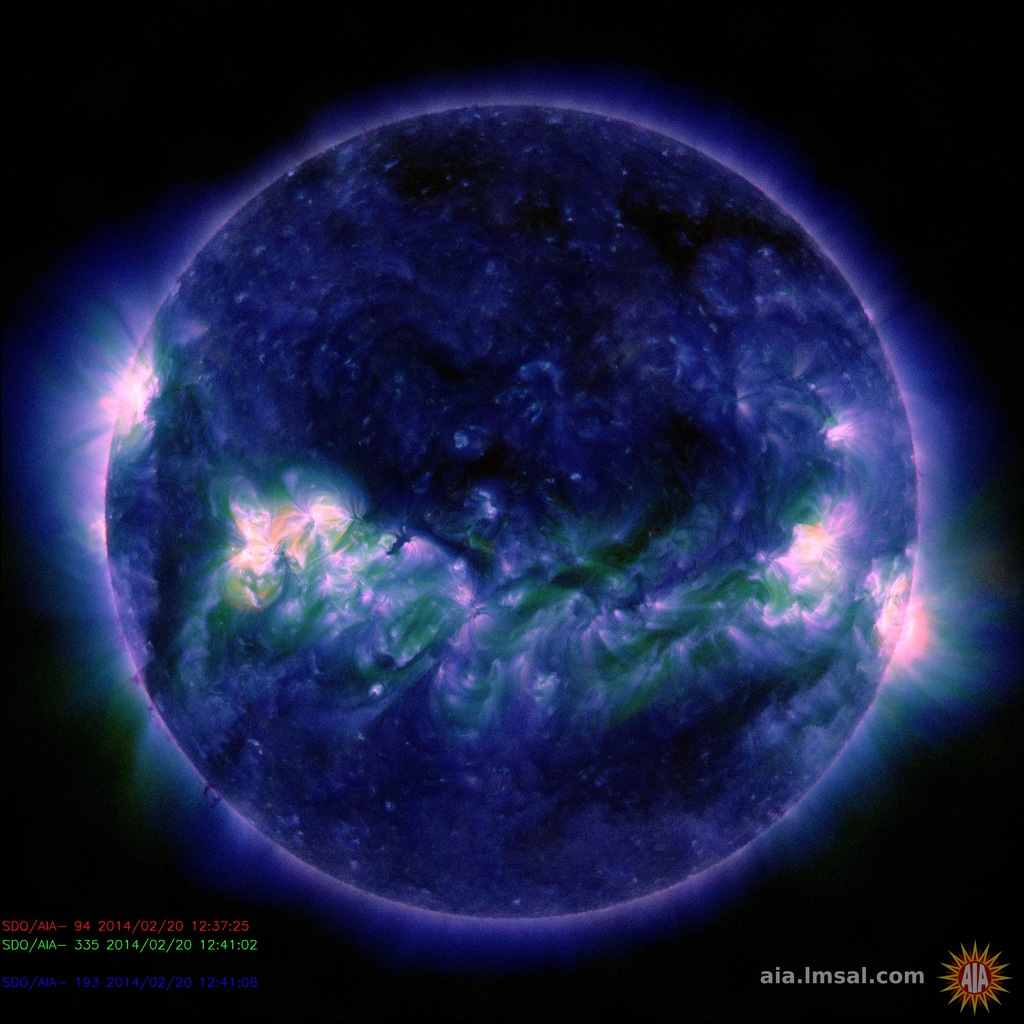
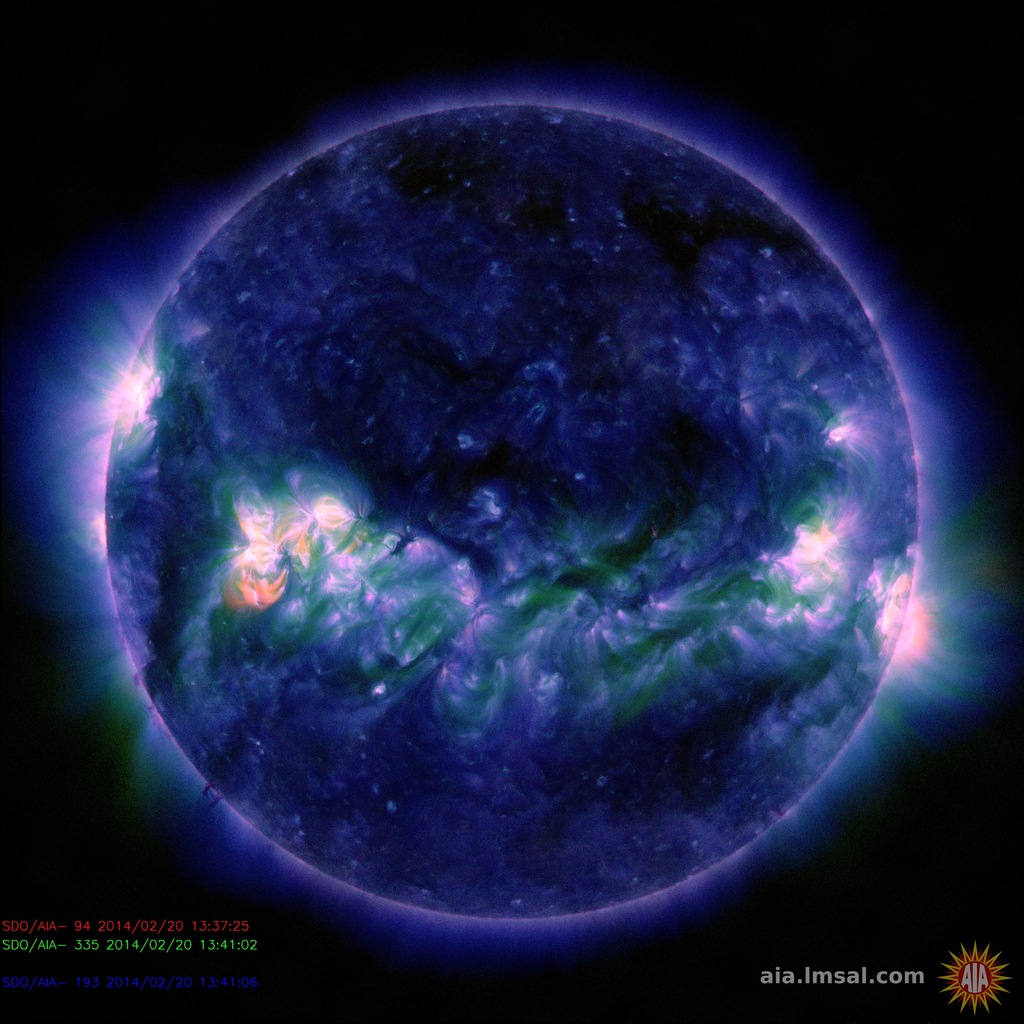
Cleanup: * methodized a bit * gitignore for downloaded files * multiline fixes * cleaned tabs (plz use only 4 whitespaces per indent level! kthx) * fixed module execution handler

diff --git a/weather.html b/weather.html
@@ -5,12 +5,12 @@
         padding-top: 10px;
       }
       .tabelle {
-	width: 100%;
-	}
+    width: 100%;
+    }
       .solar {
-	color:#FFFFFF;
-	background-color:#333333;
-	}
+    color:#FFFFFF;
+    background-color:#333333;
+    }
     </style>
     <title>c-beam</title>
     <meta charset="utf-8">
@@ -29,13 +29,13 @@
   <div class="container">
     <h1>nerdctrl status monitor</h1>
     <hr><p></p>
-	<table class="tabelle">
-		<tr>
+    <table class="tabelle">
+        <tr>
 <td valign="top">
-<p><b>WEATHER CONDITIONS</b><br />captured at: 20.2.2014 14:2 h 32sec <br />captured at base of main-antenna </p><p>Bedingungen: <b> stark bewölkt  </b> <br />Temperature <b> 10&deg;C °C</b> <br />Wind from <b> SSW </b> <br />Wind with <b> 13 km/h </b> <br />Pressure <b>1012hPa</b> </p>	</td>
-		<td><img src="rainradar.gif" alt="Regenradar"></td>
-			<td><img src="solar_img.jpg" alt="Sonne, live" width="500px"></td>
-		</tr>	</table> 
+<p><b>WEATHER CONDITIONS</b><br />captured at: 20.2.2014 15:14 h 24sec <br />captured at base of main-antenna </p><p>Bedingungen: <b> wolkig  </b> <br />Temperature <b> 10&deg;C °C</b> <br />Wind from <b> SSW </b> <br />Wind with <b> 13 km/h </b> <br />Pressure <b>1012hPa</b> </p>	</td>
+        <td><img src="rainradar.gif" alt="Regenradar"></td>
+            <td><img src="solar_img.jpg" alt="Sonne, live" width="500px"></td>
+        </tr>	</table>
     <footer class="row"> 
 computer says this is the footer and noooooo 
     </footer> 

diff --git a/weatherscript-html.py b/weatherscript-html.py
@@ -1,127 +1,187 @@
-# thanks to kristall, who helped me big time in learning python and who teached me line-by-line how to write this script. Everything that appears unprofessionally in this script has been grown on my madness and has nothing to do with kristalls ingenuity and teaching.
-
 #!/usr/bin/env python3
+
+# thanks to kristall, who helped me big time in learning python and who teached me line-by-line how to write this
+# script. Everything that appears unprofessionally in this script has been grown on my madness and has nothing to do
+# with kristalls ingenuity and teaching.
+
 
 import urllib.request
 import time
 
-def download(url,targetname):
-	"""Copy the contents of a file from a given URL
-	to a local file.
-	"""
-#	import urllib
-	webFile = urllib.request.urlopen(url)
-	localFile = open(targetname, 'wb')
-	localFile.write(webFile.read())
-	webFile.close()
-	localFile.close()
 
-local_weather = urllib.request.urlopen('http://www.wetter24.de/wetter/berlin-alexanderplatz/10389.html')
-full_src_local_weather = local_weather.read().decode()
+def download(url, targetname):
+    """Copy the contents of a file from a given URL
+    to a local file.
+    """
 
-solar_weather = urllib.request.urlopen('http://sdo.gsfc.nasa.gov/data/')
-full_src_solar_weather = solar_weather.read().decode('ISO 8859-1')
+    webFile = urllib.request.urlopen(url)
+    localFile = open(targetname, 'wb')
+    localFile.write(webFile.read())
+    webFile.close()
+    localFile.close()
 
-snippet_local = full_src_local_weather[full_src_local_weather.find('head_ww'):full_src_local_weather.find('hPa<')+4]
 
-snippet_solar_begin = full_src_solar_weather.find('<h1>AIA 094, 335, 193</h1>')
-snippet_solar = full_src_solar_weather[snippet_solar_begin:full_src_solar_weather.find('latest_image',snippet_solar_begin)+9]
+def createPage():
+    local_weather = urllib.request.urlopen('http://www.wetter24.de/wetter/berlin-alexanderplatz/10389.html')
+    full_src_local_weather = local_weather.read().decode()
 
-condition_zahl = snippet_local.find('head_ww')
-condition_begin = snippet_local.find('alt="',condition_zahl) + 5
-condition_end = snippet_local.find('"',condition_begin)
-condition = snippet_local[condition_begin:condition_end]
+    solar_weather = urllib.request.urlopen('http://sdo.gsfc.nasa.gov/data/')
+    full_src_solar_weather = solar_weather.read().decode('ISO 8859-1')
 
-date_and_time = time.localtime()
-year = date_and_time[0]
-month = date_and_time[1]
-day = date_and_time[2]
-hours = date_and_time[3]
-minutes = date_and_time[4]
-seconds = date_and_time[5]
+    snippet_local = full_src_local_weather[
+                    full_src_local_weather.find('head_ww'):full_src_local_weather.find('hPa<') + 4]
 
-print(' ')
-print('WEATHER CONDITIONS')
-print("captured at: %s.%s.%s %s:%s h %ssec" % (day, month, year, hours, minutes, seconds))
-print('captured at base of main-antenna')
-print(' ')
+    snippet_solar_begin = full_src_solar_weather.find('<h1>AIA 094, 335, 193</h1>')
+    snippet_solar = full_src_solar_weather[
+                    snippet_solar_begin:full_src_solar_weather.find('latest_image', snippet_solar_begin) + 9]
 
-print('Bedingungen',condition)
+    condition_zahl = snippet_local.find('head_ww')
+    condition_begin = snippet_local.find('alt="', condition_zahl) + 5
+    condition_end = snippet_local.find('"', condition_begin)
+    condition = snippet_local[condition_begin:condition_end]
 
-temp_zahl = snippet_local.find('head_tt2')
-temp_begin = snippet_local.find('>',temp_zahl) + 1
-temp_end = snippet_local.find('</p>',temp_zahl)
-temp = snippet_local[temp_begin:temp_end]
+    date_and_time = time.localtime()
+    year = date_and_time[0]
+    month = date_and_time[1]
+    day = date_and_time[2]
+    hours = date_and_time[3]
+    minutes = date_and_time[4]
+    seconds = date_and_time[5]
 
-print('Temperature <b>',temp,' °C</b>')
+    print(' ')
+    print('WEATHER CONDITIONS')
+    print("captured at: %s.%s.%s %s:%s h %ssec" % (day, month, year, hours, minutes, seconds))
+    print('captured at base of main-antenna')
+    print(' ')
 
-wind_zahl = snippet_local.find('wind32px')
-wind_begin = snippet_local.find('alt="',wind_zahl) + 5
-wind_end = snippet_local.find('" title',wind_zahl)
-wind = snippet_local[wind_begin:wind_end]
+    print('Bedingungen', condition)
 
-print('Wind from <b>',wind,' </b>')
+    temp_zahl = snippet_local.find('head_tt2')
+    temp_begin = snippet_local.find('>', temp_zahl) + 1
+    temp_end = snippet_local.find('</p>', temp_zahl)
+    temp = snippet_local[temp_begin:temp_end]
 
-w_speed_zahl = snippet_local.find('head_ff2')
-w_speed_begin = snippet_local.find('>',w_speed_zahl) + 1
-w_speed_end = snippet_local.find('</p>',w_speed_zahl)
-w_speed = snippet_local[w_speed_begin:w_speed_end]
+    print('Temperature <b>', temp, ' °C</b>')
 
-print('Wind with <b>',w_speed,'</b>')
+    wind_zahl = snippet_local.find('wind32px')
+    wind_begin = snippet_local.find('alt="', wind_zahl) + 5
+    wind_end = snippet_local.find('" title', wind_zahl)
+    wind = snippet_local[wind_begin:wind_end]
 
-press_zahl = snippet_local.find('head_ppp2')
-press_begin = snippet_local.find('>', press_zahl) + 1
-press_end = snippet_local.find('</p>', press_begin)
-press = snippet_local[press_begin:press_end]
+    print('Wind from <b>', wind, ' </b>')
 
-print('Pressure <b>',press,'</b>')
+    w_speed_zahl = snippet_local.find('head_ff2')
+    w_speed_begin = snippet_local.find('>', w_speed_zahl) + 1
+    w_speed_end = snippet_local.find('</p>', w_speed_zahl)
+    w_speed = snippet_local[w_speed_begin:w_speed_end]
 
-rainradar_url = 'http://wind.met.fu-berlin.de/loops/radar_100/R.NEW.gif'
-rainradar_name = 'rainradar.gif'
-print('starting download procedure of rain-radar using ',rainradar_url)
-download(rainradar_url,rainradar_name) 
+    print('Wind with <b>', w_speed, '</b>')
 
-'''
-solarweather_txt_url = 'http://www.swpc.noaa.gov/ftpdir/lists/particle/Gs_part_5m.txt'
-solarweather_txt_name = '5minute-table.txt'
-print('starting download procedure of solar weather table 5min res. using ',solarweather_txt_url)
-download(solarweather_txt_url,solarweather_txt_name) 
-'''
+    press_zahl = snippet_local.find('head_ppp2')
+    press_begin = snippet_local.find('>', press_zahl) + 1
+    press_end = snippet_local.find('</p>', press_begin)
+    press = snippet_local[press_begin:press_end]
 
-solar_img_begin = snippet_solar.find('href="') + 6
-solar_img_end = snippet_solar.find('">',solar_img_begin)
-solar_img = 'http://sdo.gsfc.nasa.gov' + snippet_solar[solar_img_begin:solar_img_end]
-print('starting download procedure of solar weather image',solar_img)
-download(solar_img,'solar_img.jpg')
+    print('Pressure <b>', press, '</b>')
 
-fobj = open("weather.html", "w") 
-fobj.write('<!DOCTYPE html>\n<html lang="en"><head><meta http-equiv="Content-Type" content="text/html; charset=UTF-8">\n    <style type="text/css">\n      body {\n        padding-top: 10px;\n      }\n      .tabelle {\n	width: 100%;\n	}\n      .solar {\n	color:#FFFFFF;\n	background-color:#333333;\n	}\n    </style>\n    <title>c-beam</title>\n    <meta charset="utf-8">\n    <meta name="viewport" content="width=device-width, initial-scale=1.0">\n    <meta name="description" content="">\n    <meta name="author" content="">\n    <script src="./c-beam_files/jquery.min.js"></script>\n    <script src="./c-beam_files/bootstrap-dropdown.js"></script>\n    <link href="./c-beam_files/cyborg.css" rel="stylesheet" type="text/css">\n    <script src="./c-beam_files/bootstrap.js"></script>\n    <link href="https://c-beam.cbrp3.c-base.org/static/c-base-bootstrap/css/bootstrap-responsive.css" rel="stylesheet">\n    <link href="https://c-beam.cbrp3.c-base.org/static/c-base-bootstrap/css/bootstrap.custom.css" rel="stylesheet">\n    <!-- link rel="shortcut icon" href="ico/favicon.ico" -->\n</head>\n<body>\n  <div class="container">\n    <h1>nerdctrl status monitor</h1>\n    <hr><p></p>\n	<table class="tabelle">\n		<tr>\n<td valign="top">\n') 
+    rainradar_url = 'http://wind.met.fu-berlin.de/loops/radar_100/R.NEW.gif'
+    rainradar_name = 'rainradar.gif'
+    print('starting download procedure of rain-radar using ', rainradar_url)
+    download(rainradar_url, rainradar_name)
 
-fobj.write('<p><b>WEATHER CONDITIONS</b><br />')
-fobj.write("captured at: %s.%s.%s %s:%s h %ssec <br />" % (day, month, year, hours, minutes, seconds))
-fobj.write('captured at base of main-antenna </p>')
-fobj.write("<p>")
-fobj.write("Bedingungen: <b> %s </b> <br />" % (condition))
-fobj.write('Temperature <b> %s °C</b> <br />' % (temp))
-fobj.write('Wind from <b> %s </b> <br />' % (wind))
-fobj.write('Wind with <b> %s </b> <br />' % (w_speed))
-fobj.write('Pressure <b>%s</b> </p>' % (press))
-fobj.write('	</td>\n		<td><img src="rainradar.gif" alt="Regenradar"></td>\n			<td><img src="solar_img.jpg" alt="Sonne, live" width="500px"></td>\n		</tr>')
-fobj.write('	</table> \n    <footer class="row"> \ncomputer says this is the footer and noooooo \n    </footer> \n  </div> <!-- container --> \n<script src="./c-beam_files/html5slider.js"></script> \n</body></html> \n ')
-fobj.close()
+    '''
+    solarweather_txt_url = 'http://www.swpc.noaa.gov/ftpdir/lists/particle/Gs_part_5m.txt'
+    solarweather_txt_name = '5minute-table.txt'
+    print('starting download procedure of solar weather table 5min res. using ',solarweather_txt_url)
+    download(solarweather_txt_url,solarweather_txt_name)
+    '''
 
-'''
+    solar_img_begin = snippet_solar.find('href="') + 6
+    solar_img_end = snippet_solar.find('">', solar_img_begin)
+    solar_img = 'http://sdo.gsfc.nasa.gov' + snippet_solar[solar_img_begin:solar_img_end]
+    print('starting download procedure of solar weather image', solar_img)
+    download(solar_img, 'solar_img.jpg')
+
+    fobj = open("weather.html", "w")
+    fobj.write(
+        """<!DOCTYPE html>
+<html lang="en"><head><meta http-equiv="Content-Type" content="text/html; charset=UTF-8">
+    <style type="text/css">
+      body {
+        padding-top: 10px;
+      }
+      .tabelle {
+    width: 100%;
+    }
+      .solar {
+    color:#FFFFFF;
+    background-color:#333333;
+    }
+    </style>
+    <title>c-beam</title>
+    <meta charset="utf-8">
+    <meta name="viewport" content="width=device-width, initial-scale=1.0">
+    <meta name="description" content="">
+    <meta name="author" content="">
+    <script src="./c-beam_files/jquery.min.js"></script>
+    <script src="./c-beam_files/bootstrap-dropdown.js"></script>
+    <link href="./c-beam_files/cyborg.css" rel="stylesheet" type="text/css">
+    <script src="./c-beam_files/bootstrap.js"></script>
+    <link href="https://c-beam.cbrp3.c-base.org/static/c-base-bootstrap/css/bootstrap-responsive.css" rel="stylesheet">
+    <link href="https://c-beam.cbrp3.c-base.org/static/c-base-bootstrap/css/bootstrap.custom.css" rel="stylesheet">
+    <!-- link rel="shortcut icon" href="ico/favicon.ico" -->
+</head>
+<body>
+  <div class="container">
+    <h1>nerdctrl status monitor</h1>
+    <hr><p></p>
+    <table class="tabelle">
+        <tr>
+<td valign="top">
+""")
+
+    fobj.write('<p><b>WEATHER CONDITIONS</b><br />')
+    fobj.write("captured at: %s.%s.%s %s:%s h %ssec <br />" % (day, month, year, hours, minutes, seconds))
+    fobj.write('captured at base of main-antenna </p>')
+    fobj.write("<p>")
+    fobj.write("Bedingungen: <b> %s </b> <br />" % (condition))
+    fobj.write('Temperature <b> %s °C</b> <br />' % (temp))
+    fobj.write('Wind from <b> %s </b> <br />' % (wind))
+    fobj.write('Wind with <b> %s </b> <br />' % (w_speed))
+    fobj.write('Pressure <b>%s</b> </p>' % (press))
+    fobj.write(
+        """	</td>
+        <td><img src="rainradar.gif" alt="Regenradar"></td>
+            <td><img src="solar_img.jpg" alt="Sonne, live" width="500px"></td>
+        </tr>""")
+    fobj.write(
+        """	</table>
+    <footer class="row"> 
+computer says this is the footer and noooooo 
+    </footer> 
+  </div> <!-- container --> 
+<script src="./c-beam_files/html5slider.js"></script> 
+</body></html> 
+ """)
+    fobj.close()
+
+
 if __name__ == '__main__':
-	import sys
-	if len(sys.argv) == 2:
-		try:
-			download(sys.argv[1])
-		except IOError:
-			print('Filename not found.')
-	else:
-		import os
-		print('usage: %s http://server.com/path/to/filename' % os.path.basename(sys.argv[0]))
-'''
+    createPage()
+
+
+
+    #import sys
+    #
+    # if len(sys.argv) == 2:
+    #     try:
+    #         download(sys.argv[1])
+    #     except IOError:
+    #         print('Filename not found.')
+    # else:
+    #     import os
+    #     print('usage: %s http://server.com/path/to/filename' % os.path.basename(sys.argv[0]))
+
 # http://wind.met.fu-berlin.de/loops/radar_100/rad-bln.20140218_2230.gif
 
 # open erzeugt einen handler auf eine datei, die geöffnet, geschrieben und geschlossen werden muss. 
